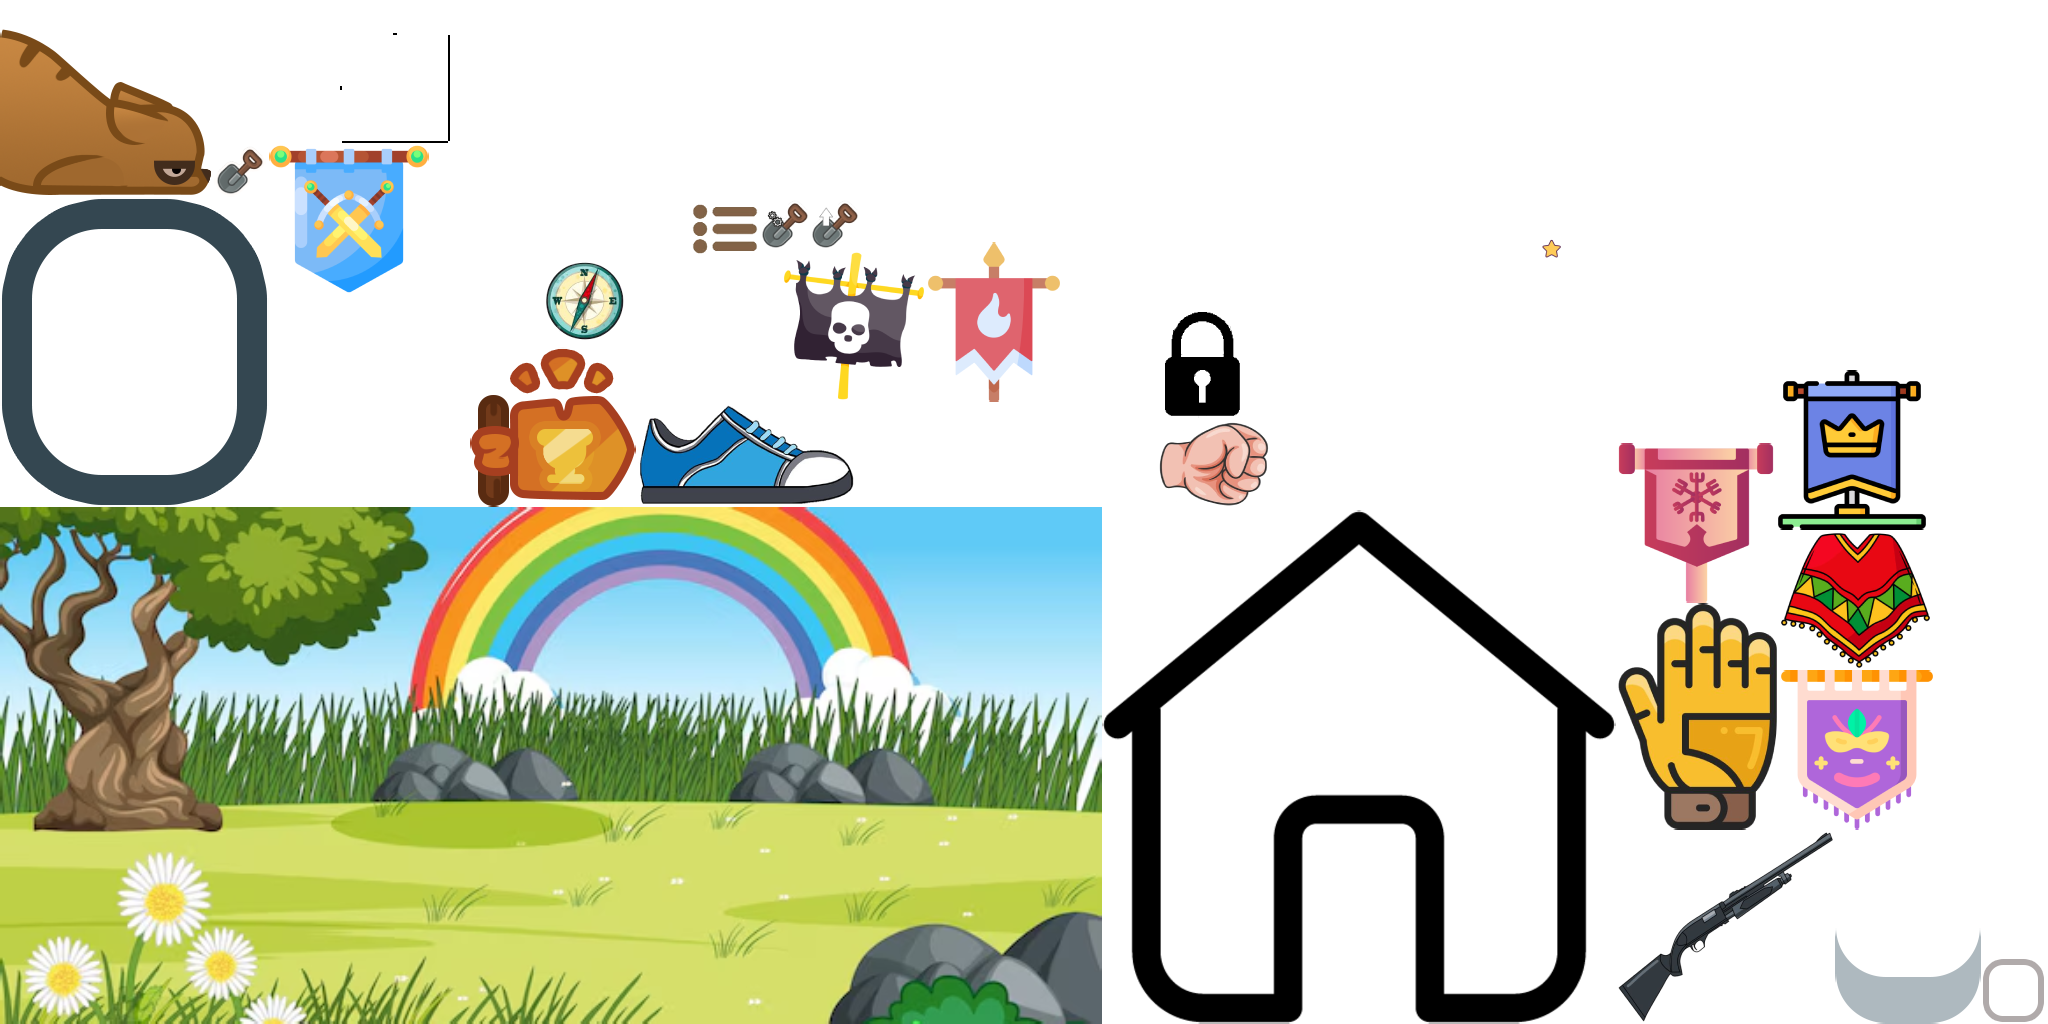
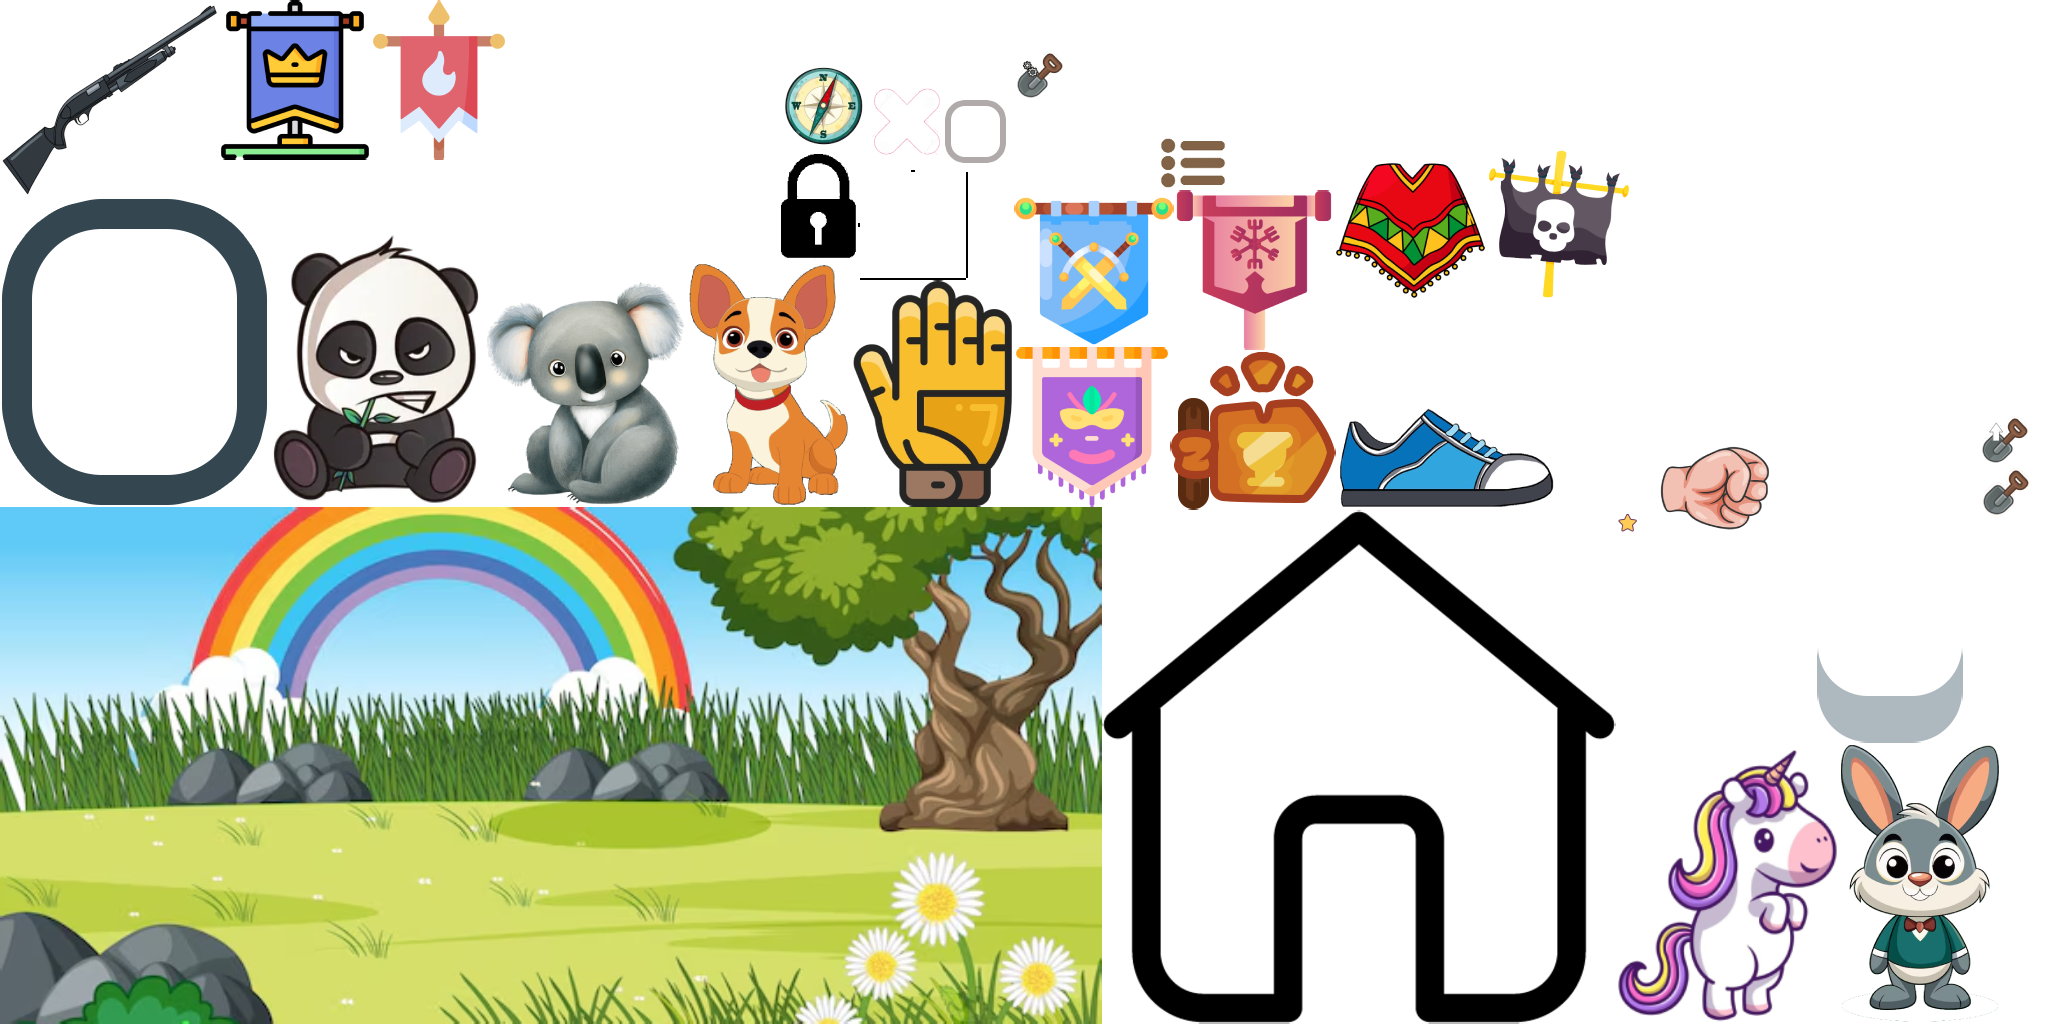
Some changes have been done, pet dialog is comleted. SOme managers are added to generate items.

diff --git a/core/src/main/java/com/bootcamp/demo/pages/core/Dialogs.java b/core/src/main/java/com/bootcamp/demo/pages/core/Dialogs.java
@@ -4,7 +4,6 @@ import com.badlogic.gdx.graphics.Color;
 import com.badlogic.gdx.scenes.scene2d.ui.Image;
 import com.badlogic.gdx.scenes.scene2d.ui.Label;
 import com.badlogic.gdx.scenes.scene2d.ui.Table;
-import com.badlogic.gdx.utils.Align;
 import com.badlogic.gdx.utils.Null;
 import com.badlogic.gdx.utils.ObjectMap;
 import com.bootcamp.demo.data.Stat;
@@ -22,7 +21,6 @@ import com.bootcamp.demo.localization.GameFont;
 import com.bootcamp.demo.managers.API;
 import com.bootcamp.demo.pages.LootingPage;
 
-import java.util.EnumMap;
 import java.util.Map;
 
 public class Dialogs {
@@ -102,7 +100,7 @@ public class Dialogs {
 
         @Override
         protected void constructTitleSegment (Table titleSegment) {
-            Label titleLabel = Labels.make(GameFont.BOLD_48, Color.DARK_GRAY, "Flag Info");
+            Label titleLabel = Labels.make(GameFont.BOLD_48, Color.DARK_GRAY, "Flags");
 
             CloseButton closeButton = new CloseButton();
 
@@ -126,7 +124,8 @@ public class Dialogs {
             general.row();
             general.add(equipButton);
 
-            content.add(general).size(1200, 1400);
+            content.pad(30);
+            content.add(general).width(1200);
         }
 
         protected class EquippedFlag extends BorderedTable {
@@ -227,9 +226,8 @@ public class Dialogs {
 
                 if (!isAvailable)
                 {
-                    Image blocked = new Image(Resources.getDrawable("ui/flags/blocked"));
-                    blocked.setSize(210, 210);
-                    blocked.setAlign(Align.center);
+                    Image blocked = new Image(Resources.getDrawable("ui/flags/blocked")); //TODO: make this block icon reusable, take from pool
+                    blocked.setPosition(120, 10);
                     addActor(blocked);
                     return;
                 }
@@ -279,11 +277,11 @@ public class Dialogs {
         }
 
         protected class CloseButton extends OffsetButton {
-            private Label label;
+            private Image icon;
 
             public CloseButton () {
-                label = Labels.make(GameFont.BOLD_28);
-                label.setText(" X ");
+                icon = new Image(Resources.getDrawable("ui/close-button"));
+                icon.setSize(100, 100);
 
                 build(Style.RED_35);
             }
@@ -291,7 +289,7 @@ public class Dialogs {
             @Override
             public void buildInner(Table container) {
                 super.buildInner(container);
-                container.add(label).pad(30);
+                container.add(icon);
 
                 setOnClick(() -> {
                     API.get(DialogManager.class).hide(FlagsDialog.class);
@@ -324,7 +322,7 @@ public class Dialogs {
 
         @Override
         protected void constructTitleSegment (Table titleSegment) {
-            Label titleLabel = Labels.make(GameFont.BOLD_48, Color.DARK_GRAY, "Pet Info");
+            Label titleLabel = Labels.make(GameFont.BOLD_40, Color.DARK_GRAY, "Pets");
 
             CloseButton closeButton = new CloseButton();
 
@@ -338,17 +336,14 @@ public class Dialogs {
         protected void constructContent(Table content) {
             equippedPet = new EquippedPet();
             petsContainer = new PetsContainer();
-            equipButton = new EquipButton();
 
             Table general = new Table();
             general.defaults().pad(17);
             general.add(equippedPet).fillX();
             general.row();
             general.add(petsContainer);
-            general.row();
-            general.add(equipButton);
 
-            content.add(general).size(1200, 1500);
+            content.add(general).width(1200);
         }
 
         protected class EquippedPet extends Table {
@@ -360,14 +355,14 @@ public class Dialogs {
 
             public EquippedPet () {
                 icon = new Image(Squircle.SQUIRCLE_35.getDrawable(Color.BLUE));
-                icon.setSize(300, 300);
-                icon.setPosition(100, 30);
-                name = Labels.make(GameFont.BOLD_24,Color.CHARTREUSE, "Hello");
-                name.setPosition(10, 450);
-                rarity = Labels.make(GameFont.BOLD_24, Color.BLACK, "Ola");
-                rarity.setPosition(10, 400);
-                lvl = Labels.make(GameFont.BOLD_24, Color.BLUE, "Barev");
-                lvl.setPosition(10, 0);
+                icon.setSize(400, 400);
+                icon.setPosition(300, 30);
+                name = Labels.make(GameFont.BOLD_24);
+                name.setPosition(10, 480);
+                rarity = Labels.make(GameFont.BOLD_24);
+                rarity.setPosition(10, 430);
+                lvl = Labels.make(GameFont.BOLD_24);
+                lvl.setPosition(10, 50);
 
                 Table iconWrapper = new Table();
                 iconWrapper.setBackground(Resources.getDrawable("ui/pets/pet-background"));
@@ -381,9 +376,16 @@ public class Dialogs {
                 stats.setBackground(Squircle.SQUIRCLE_35.getDrawable(Color.valueOf("#c4b4a3")));;
                 stats.defaults().size(350, 50).pad(30);
 
-                add(iconWrapper);
+                equipButton = new EquipButton();
+
+                Table statsAndButtonWrapper = new Table();
+                statsAndButtonWrapper.add(stats).fillX();
+                statsAndButtonWrapper.add(equipButton).pad(40);
+
+
+                add(iconWrapper).size(1100, 515).pad(20);
                 row();
-                add(stats).size(1100, 100).pad(40);
+                add(statsAndButtonWrapper);
             }
 
             public void setData (PetsSaveData petsSaveData) {
@@ -393,15 +395,16 @@ public class Dialogs {
                 name.setText(equipped.getName());
                 lvl.setText("Lvl: " + equipped.getLevel());
                 rarity.setText(equipped.getRarity().getTitle());
+                rarity.setColor(equipped.getRarity().getBackgroundColor());
 
 
                 stats.clearChildren();
-
                 for (Map.Entry<Stat, Float> entry : equipped.getStatsSaveData().getStat().entrySet()) {
                     Widgets.StatWidget statWidget = new Widgets.StatWidget();
                     statWidget.setData(entry);
                     stats.add(statWidget);
                 }
+                equipButton.setData();
             }
         }
 
@@ -488,11 +491,11 @@ public class Dialogs {
         }
 
         protected class CloseButton extends OffsetButton {
-            private Label label;
+            private Image icon;
 
             public CloseButton () {
-                label = Labels.make(GameFont.BOLD_28);
-                label.setText(" X ");
+                icon = new Image(Resources.getDrawable("ui/close-button"));
+                icon.setSize(100, 100);
 
                 build(Style.RED_35);
             }
@@ -500,7 +503,7 @@ public class Dialogs {
             @Override
             public void buildInner(Table container) {
                 super.buildInner(container);
-                container.add(label).pad(30);
+                container.add(icon);
 
                 setOnClick(() -> {
                     API.get(DialogManager.class).hide(PetsDialog.class);
@@ -514,7 +517,6 @@ public class Dialogs {
             equippedPet.setData(saveData.getPetsSaveData());
             petsContainer.setData(saveData.getPetsSaveData());
             newSelectedPet = "";
-            equipButton.setData();
             API.get(PageManager.class).getPage(LootingPage.class).setData();
         }
 

diff --git a/core/src/main/java/com/bootcamp/demo/data/save/GenerateManager.java b/core/src/main/java/com/bootcamp/demo/data/save/GenerateManager.java
@@ -1,0 +1,54 @@
+package com.bootcamp.demo.data.save;
+
+import com.bootcamp.demo.data.Rarity;
+import com.bootcamp.demo.data.Stat;
+import com.bootcamp.demo.managers.API;
+
+import java.util.EnumMap;
+import java.util.Random;
+
+public class GenerateManager {
+    public static void generatePets () {
+        Random rand = new Random();
+        String[] pets = {"Dog", "Koala", "Panda", "Rabbit", "Unicorn"};
+
+        for (String pet : pets) {
+            PetSaveData petSaveData = new PetSaveData();
+            petSaveData.setLevel(rand.nextInt(1, 25));
+            petSaveData.setStatsSaveData(generateStats());
+            petSaveData.setRarity(Rarity.values()[rand.nextInt(15)]);
+            petSaveData.setName(pet);
+            API.get(SaveData.class).getPetsSaveData().getPets().put(pet, petSaveData);
+            API.get(SaveData.class).getPetsSaveData().setEquipped(pet);
+        }
+    }
+
+    public static void generateFlags () {
+        Random rand = new Random();
+        String[] flags = {"Rebel", "Pirate", "Knights", "Fire", "Snowflake", "Royal", "Jester"};
+
+        for (int i = 0; i < 4; i++) {
+            FlagSaveData flagSaveData = new FlagSaveData();
+            flagSaveData.setLevel(rand.nextInt(1, 25));
+            flagSaveData.setStatsSaveData(generateStats());
+            flagSaveData.setRarity(Rarity.values()[rand.nextInt(15)]);
+            flagSaveData.setName(flags[rand.nextInt(0, 6)]);
+            API.get(SaveData.class).getFlagsSaveData().getFlags().put(flagSaveData.getName(), flagSaveData);
+            API.get(SaveData.class).getFlagsSaveData().setEquipped(flagSaveData.getName());
+        }
+    }
+
+    public static StatsSaveData generateStats () {
+        Random rand = new Random();
+
+        EnumMap<Stat, Float> stats = new EnumMap<>(Stat.class);
+        for (int i = 0; i < 5; i++) {
+            Stat stat = Stat.values()[rand.nextInt(8)];
+            stats.put(stat, rand.nextFloat(1, 100));
+        }
+
+        StatsSaveData statsSaveData = new StatsSaveData();
+        statsSaveData.setStat(stats);
+        return statsSaveData;
+    }
+}

diff --git a/core/src/main/java/com/bootcamp/demo/DemoGame.java b/core/src/main/java/com/bootcamp/demo/DemoGame.java
@@ -99,43 +99,10 @@ public class DemoGame extends Game {
 
         API.get(SaveData.class).getGearsSaveData().getEquippedGears().put(GearGameData.Type.SHOES, gearSaveData2);
 
-        /// /////////////////////
+        /// //////////////////////
 
-        FlagSaveData flagSaveData = new FlagSaveData();
-        flagSaveData.setLevel(12);
-        flagSaveData.setRarity(Rarity.ASCENDANT);
-        flagSaveData.setName("Rebel");
-        flagSaveData.setStatsSaveData(statsSaveData2);
-
-        FlagSaveData flagSaveData1 = new FlagSaveData();
-        flagSaveData1.setLevel(10);
-        flagSaveData1.setRarity(Rarity.DOMINION);
-        flagSaveData1.setName("Royal");
-        flagSaveData1.setStatsSaveData(statsSaveData2);
-
-        API.get(SaveData.class).getFlagsSaveData().getFlags().put("Rebel", flagSaveData);
-        API.get(SaveData.class).getFlagsSaveData().getFlags().put("Royal", flagSaveData1);
-        API.get(SaveData.class).getFlagsSaveData().setEquipped("Rebel");
-
-        /// /////////////////////
-
-        PetSaveData petSaveData = new PetSaveData();
-        petSaveData.setLevel(19);
-        petSaveData.setStatsSaveData(statsSaveData2);
-        petSaveData.setRarity(Rarity.DOMINION);
-        petSaveData.setName("Lazy-cat");
-
-        PetSaveData petSaveData1 = new PetSaveData();
-        petSaveData1.setLevel(19);
-        petSaveData1.setStatsSaveData(statsSaveData2);
-        petSaveData1.setRarity(Rarity.DOMINION);
-        petSaveData1.setName("Lazy-cat2");
-
-        API.get(SaveData.class).getPetsSaveData().getPets().put("Lazy-cat", petSaveData);
-        API.get(SaveData.class).getPetsSaveData().getPets().put("Lazy-cat2", petSaveData1);
-        API.get(SaveData.class).getPetsSaveData().setEquipped("Lazy-cat");
-        /// ////////////////////
-
+        GenerateManager.generateFlags();
+        GenerateManager.generatePets();
         savePlayerData();
 
         setScreen(new GameScreen());

diff --git a/core/src/main/java/com/bootcamp/demo/pages/core/Widgets.java b/core/src/main/java/com/bootcamp/demo/pages/core/Widgets.java
@@ -10,6 +10,7 @@ import com.bootcamp.demo.data.Rarity;
 import com.bootcamp.demo.data.Stat;
 import com.bootcamp.demo.data.game.FlagsGameData;
 import com.bootcamp.demo.data.game.GameData;
+import com.bootcamp.demo.data.game.PetsGameData;
 import com.bootcamp.demo.data.save.*;
 import com.bootcamp.demo.dialogs.core.DialogManager;
 import com.bootcamp.demo.engine.Labels;
@@ -273,13 +274,14 @@ public class Widgets {
             homeButton = new HomeButton();
 
             setBackground(Squircle.SQUIRCLE_35.getDrawable(Color.valueOf("#c2b8b0")));
-            add(pet).expandY().bottom();
+            add(pet).expand().bottom();
             row();
             add(homeButton).size(223, 120).bottom();
         }
 
-        public void setData () {
-            pet.setDrawable(Resources.getDrawable("ui/pets/pet-cat-orange"));
+        public void setData (PetsSaveData petsSaveData) {
+            PetsGameData petsGameData = API.get(GameData.class).getPetsGameData();
+            pet.setDrawable(petsGameData.getPets().get(petsSaveData.getEquipped()).getIcon());
             homeButton.setData();
             setOnClick(new Runnable() {
                 @Override

diff --git a/core/src/main/java/com/bootcamp/demo/pages/LootingPage.java b/core/src/main/java/com/bootcamp/demo/pages/LootingPage.java
@@ -178,7 +178,7 @@ public class LootingPage extends APage {
 
 
         flagWidget.setData(saveData.getFlagsSaveData());
-        petWidget.setData();
+        petWidget.setData(saveData.getPetsSaveData());
         lootUpgradeButton.setData();
         lootButton.setData();
         autoLootButton.setData();
